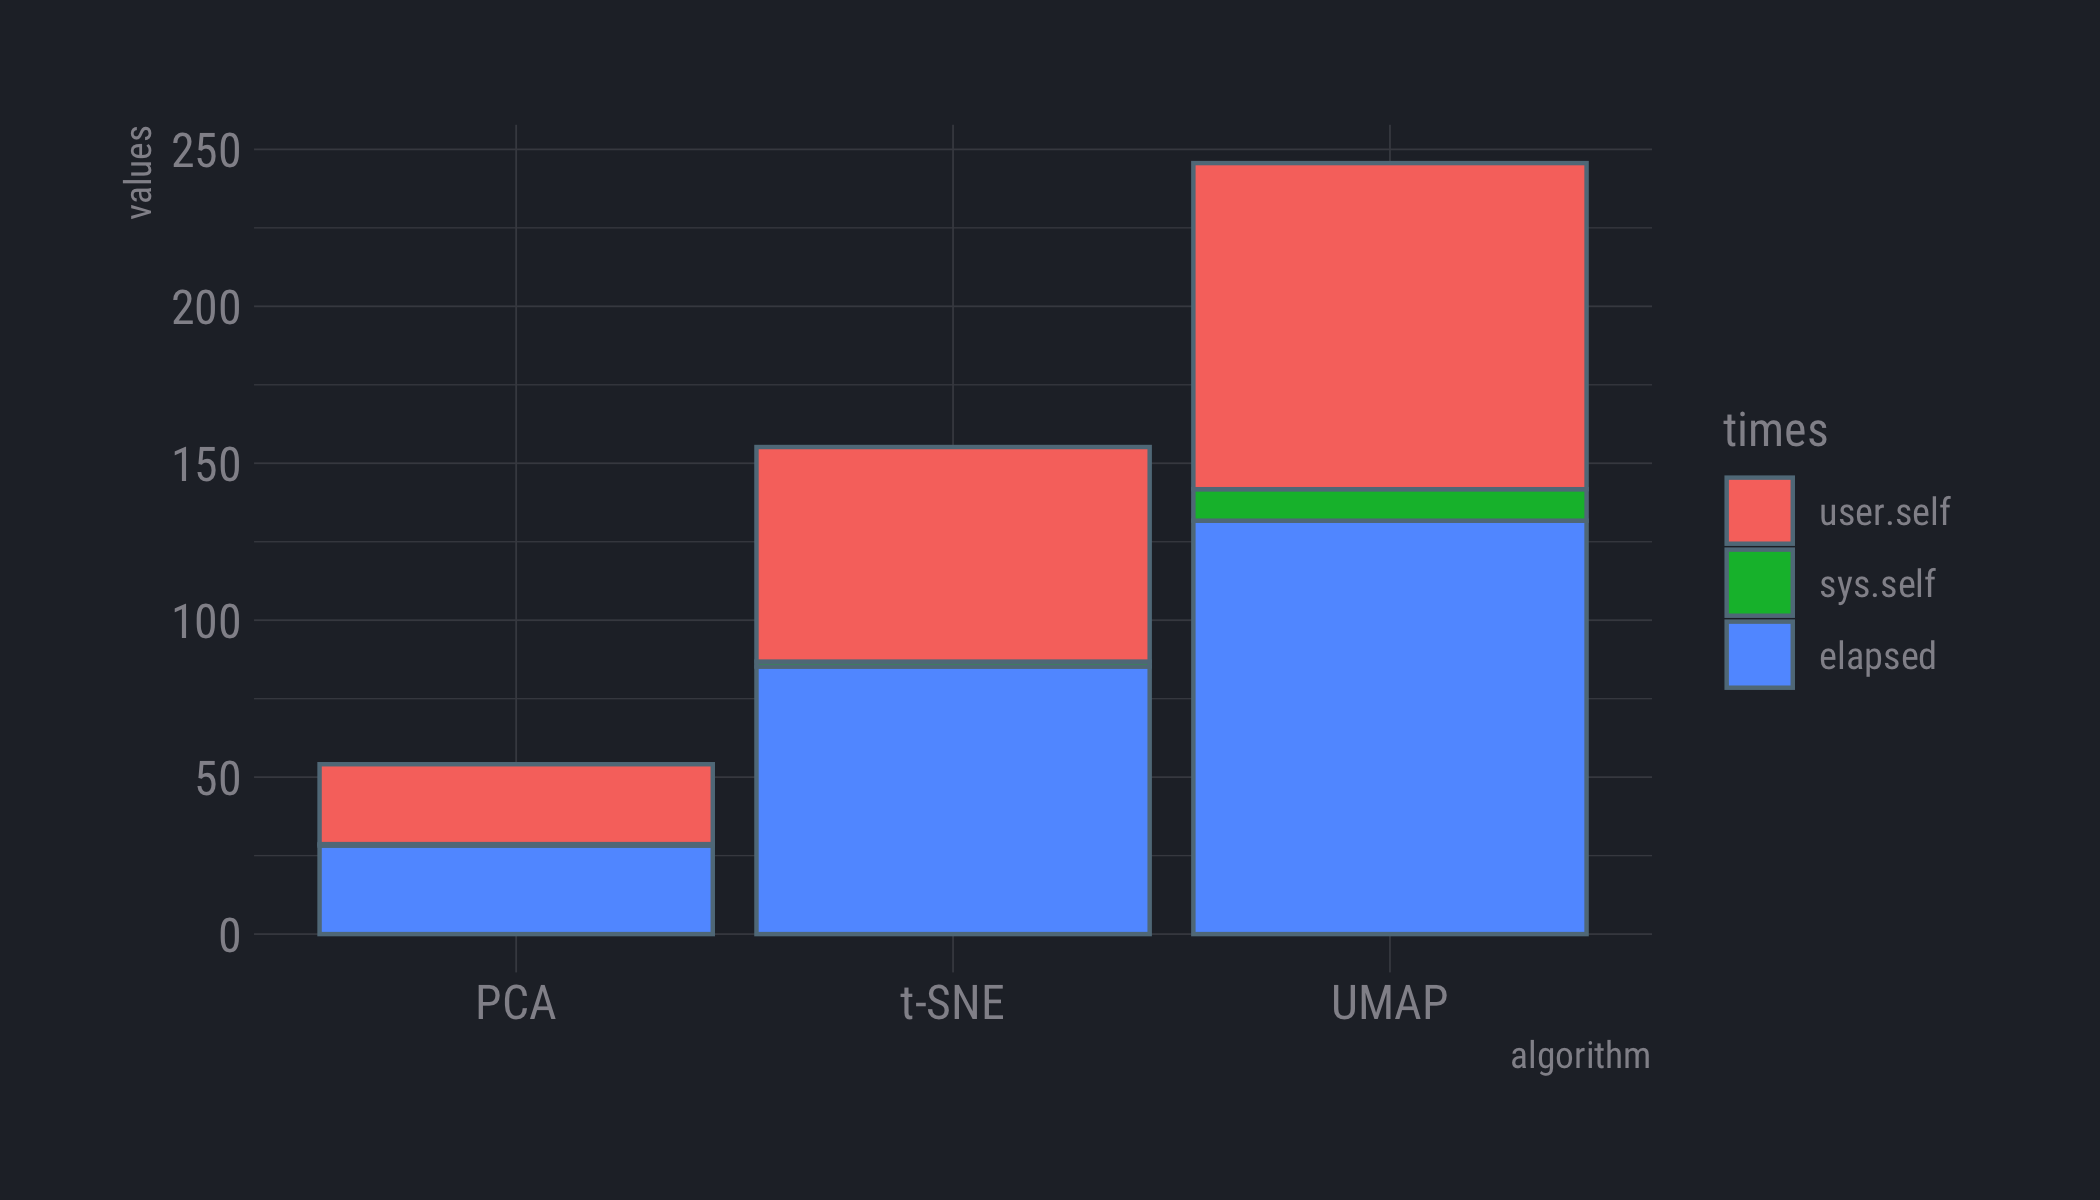
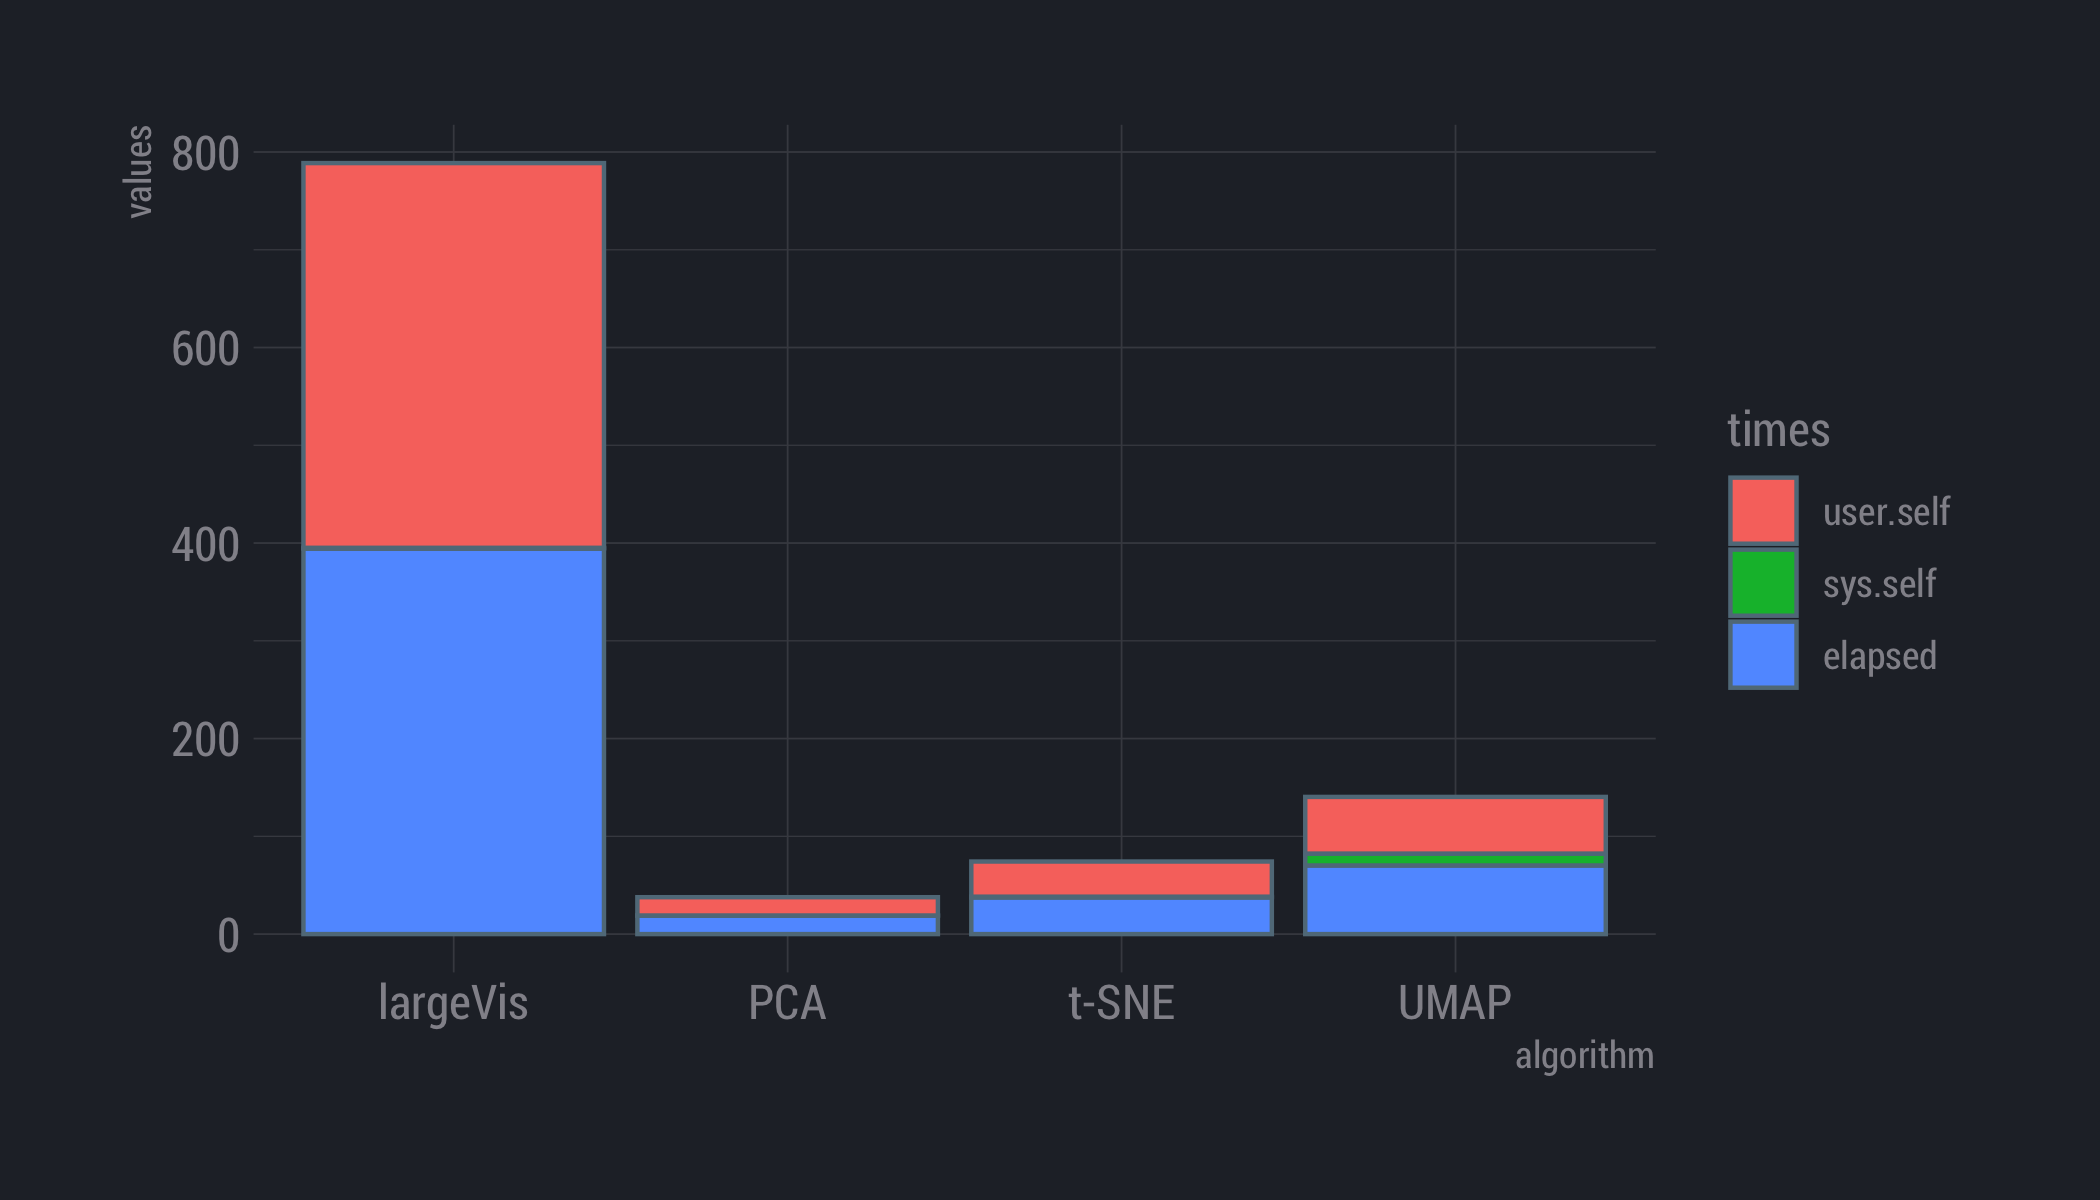
Added largeVis DR

diff --git a/README.md b/README.md
@@ -8,10 +8,11 @@ Animation showing the results of three different dimensionality reduction (DR) t
 We compare results from three different DR techniques
 
 - principle component analysis (PCA),
-- t-distributed stochastic neighbour embedding (t-SNE), and
-- uniform manifold approximation and projection (UMAP)
+- t-distributed stochastic neighbour embedding (t-SNE),
+- uniform manifold approximation and projection (UMAP), and
+- LargeVis
 
-We don't give any details involving the different DR techniques, as this would go beyond the scope of this short example and wouldn't do justice to the plethora of excellent material available online. Some references with links are given at the end of this [README.md](README.md).
+We don't give any details involving the different DR techniques, as this would go beyond the scope of this short example and wouldn't do justice to the plethora of excellent material available online. Some references with links are given at the end of this [README](README.md).
 
 As source data we use a subset of 10,000 images from the [MNIST database of handwritten digits](http://yann.lecun.com/exdb/mnist/). The original MNIST training database contains 60,000 28x28 pixel images from approximately 250 writers. Here the input data consist of a 10,000x784 matrix.
 
@@ -25,6 +26,7 @@ In order to use t-SNE and UMAP in R the packages `Rtsne` and `umap` must be inst
 ```r
 install.packages("Rtsne")
 install.packages("umap")
+devtools::install_github("elbamos/largeVis")
 ```
 
 Furthermore we need the following packages for processing data and writing the final animated GIF.
@@ -52,14 +54,16 @@ The resulting `df` is a 10,000x785-dimensional `data.frame`, where the first col
 We perform dimensionality reduction using the functions
 
 - `prcomp` for PCA,
-- `Rtsne::Rtsne` for t-SNE, and
-- `umap::umap` for UMAP.
+- `Rtsne::Rtsne` for t-SNE,
+- `umap::umap` for UMAP, and
+- `largeVis::largeVis` for largeVis
 
 All functions take the 10,000x784 matrix `df[, -1]` as input. We store results in a `res_lst` and timing information from `system.time` in `t_lst`.
 
 ```r
 library(Rtsne)
 library(umap)
+library(largeVis)
 t_lst <- list()
 res_lst <- list()
 t_lst[["t-SNE"]] <- system.time(
@@ -69,12 +73,15 @@ t_lst[["UMAP"]] <- system.time(
     res_lst[["UMAP"]] <- umap::umap(df[, -1]))
 t_lst[["PCA"]] <- system.time(
     res_lst[["PCA"]] <- prcomp(df[, -1]))
+t_lst[["largeVis"]] <- system.time(
+    res_lst[["largeVis"]] <- largeVis(
+        df[, -1], n_trees = 50, tree_th = 200, K = 50))
 ```
 
 
 ## Timings
 
-The timing results of the three different DR techniques are shown in the following figure.
+The timing results of the different DR techniques are shown in the following figure.
 
 ```r
 t_df <- t_lst %>%
@@ -83,12 +90,13 @@ t_df <- t_lst %>%
 
 t_df %>%
     pivot_wider(values_from = values, names_from = ind)
-## A tibble: 3 x 6
+## A tibble: 4 x 6
 #  algorithm user.self sys.self elapsed user.child sys.child
 #  <chr>         <dbl>    <dbl>   <dbl>      <dbl>     <dbl>
-#1 t-SNE          68.4    1.57     85.2          0         0
-#2 UMAP          104.    10.0     132.           0         0
-#3 PCA            25.4    0.464    28.2          0         0    
+#1 t-SNE          36.0    0.791    37.5          0         0
+#2 UMAP           58.0   12.1      70.2          0         0
+#3 PCA            18.7    0.152    18.9          0         0
+#4 largeVis      394.     0.809   394.           0         0    
 
 library(hrbrthemes)
 t_df %>%
@@ -112,6 +120,8 @@ get_data <- function(res, labels) {
         df <- res$layout
     } else if (class(res) == "prcomp") {
         df <- res$x[, 1:2]
+    } else if (class(res) == "largeVis") {
+        df <- t(res$coords)
     } else if ("Y" %in% names(res)) df <- res$Y
     df %>%
         as.data.frame() %>%
@@ -134,15 +144,19 @@ and create the "tweened" data
 ```r
 library(tweenr)
 data_tween <- filter(data, algorithm == "PCA") %>%
-    keep_state(10) %>%
+    keep_state(20) %>%
     tween_state(
         filter(data, algorithm == "t-SNE"),
         ease = "cubic-in-out", nframes = 100) %>%
-    keep_state(10) %>%
+    keep_state(20) %>%
     tween_state(
         filter(data, algorithm == "UMAP"),
         ease = "cubic-in-out", nframes = 100) %>%
-    keep_state(10) %>%
+    keep_state(20) %>%
+    tween_state(
+        filter(data, algorithm == "largeVis"),
+        ease = "cubic-in-out", nframes = 100) %>%
+    keep_state(20) %>%
     tween_state(
         filter(data, algorithm == "PCA"),
         ease = "cubic-in-out", nframes = 100) %>%
@@ -197,6 +211,9 @@ saveGIF({
 - [L. McInnes, J. Healy and J. Melville, *UMAP: Uniform Manifold Approximation and Projection for Dimension Reduction*, arXiv:1802.03426 (2018)](https://arxiv.org/abs/1802.03426)
 - [UMAP: Uniform Manifold Approximation and Projection for Dimension Reduction](https://umap-learn.readthedocs.io/en/latest/index.html)
 - [Uniform Manifold Approximation and Projection in R](https://cran.r-project.org/web/packages/umap/vignettes/umap.html)
+
+### largeVis
+- [J. Tang et al., *Visualizing Large-scale and High-dimensional Data*, arXiv:1602.00370 (2016)](https://arxiv.org/abs/1602.00370)
 
 
 ## Comments
